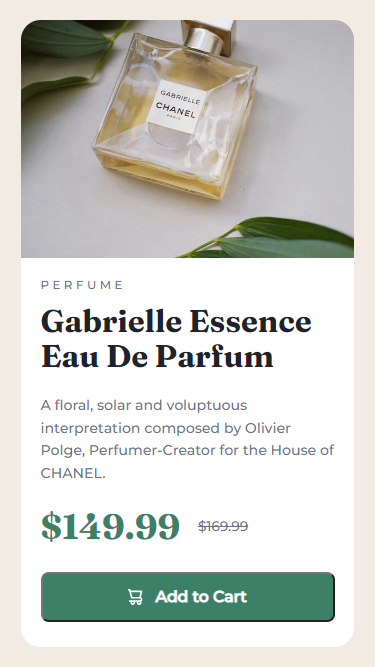
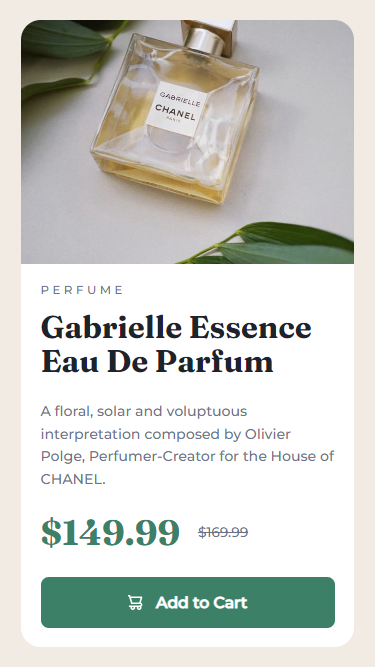
picture element eklendi.

diff --git a/styles.css b/styles.css
@@ -18,8 +18,7 @@ body {
   background-color: var(--cream);
 }
 .main {
-  width: 100vw;
-  height: 100vh;
+  min-height: 100vh;
   display: flex;
   align-items: center;
   justify-content: center;
@@ -32,16 +31,19 @@ body {
   display: flex;
   border-radius: 0.6em;
 }
+.card-image {
+  width: 50%;
+}
 
 .card-container {
   margin: 2em;
 }
-.product-img {
+#product-img {
   border-radius: 0.6em 0 0 0.6em;
   height: 100%;
-  background: url("./images/image-product-desktop.jpg");
   object-fit: cover;
 }
+
 .product-type {
   font-family: "Montserrat", serif;
   color: var(--dark-grayish-blue);
@@ -89,6 +91,7 @@ button {
   color: var(--white);
   font-size: 1.1em;
   margin-top: 1.4em;
+  border: none;
   border-radius: 0.6em;
   display: flex;
   justify-content: center;
@@ -113,17 +116,22 @@ button:hover {
     background-color: var(--white);
     border-radius: 1em;
   }
+  .card-image {
+    height: 50%;
+    width: 100%;
+  }
+  #product-img {
+    border-radius: 1em 1em 0 0;
+    height: 100%;
+    width: 100%;
+    object-fit: cover;
+  }
+
   .card-container {
     padding: 1em;
     margin: 0;
   }
-  .product-img {
-    border-radius: 1em 1em 0 0;
-    height: 100%;
-    width: 100%;
-    content: url("images/image-product-mobile.jpg");
-    alt: "perfume bottle stands among leaves";
-  }
+
   .product-type {
     font-family: "Montserrat", serif;
     color: var(--dark-grayish-blue);
@@ -171,6 +179,7 @@ button:hover {
     font-size: 0.8em;
     font-weight: 600;
     margin-top: 1.5em;
+    border: none;
     border-radius: 0.5em;
     display: flex;
     justify-content: center;

diff --git a/index.html b/index.html
@@ -13,8 +13,6 @@
     />
 
     <title>Frontend Mentor | Product preview card component</title>
-
-    <!-- Feel free to remove these styles or customise in your own stylesheet 👍 -->
     <link rel="stylesheet" href="styles.css" />
     <link rel="preconnect" href="https://fonts.googleapis.com" />
     <link rel="preconnect" href="https://fonts.gstatic.com" crossorigin />
@@ -27,11 +25,17 @@
     <div class="main">
       <div class="card">
         <div class="card-image">
-          <img
-            class="product-img"
-            src="images/image-product-desktop.jpg"
-            alt="perfume bottle stands among leaves"
-          />
+          <picture>
+            <source
+              media="(max-width:850px)"
+              srcset="images/image-product-mobile.jpg"
+            />
+            <img
+              id="product-img"
+              src="images/image-product-desktop.jpg"
+              alt="perfume bottle stands among leaves"
+            />
+          </picture>
         </div>
         <div class="card-body">
           <div class="card-container">
@@ -47,7 +51,11 @@
             </div>
 
             <button>
-              <img class="icon-cart" src="images/icon-cart.svg" />Add to Cart
+              <img
+                class="icon-cart"
+                src="images/icon-cart.svg"
+                alt="cart icon"
+              />Add to Cart
             </button>
           </div>
         </div>
